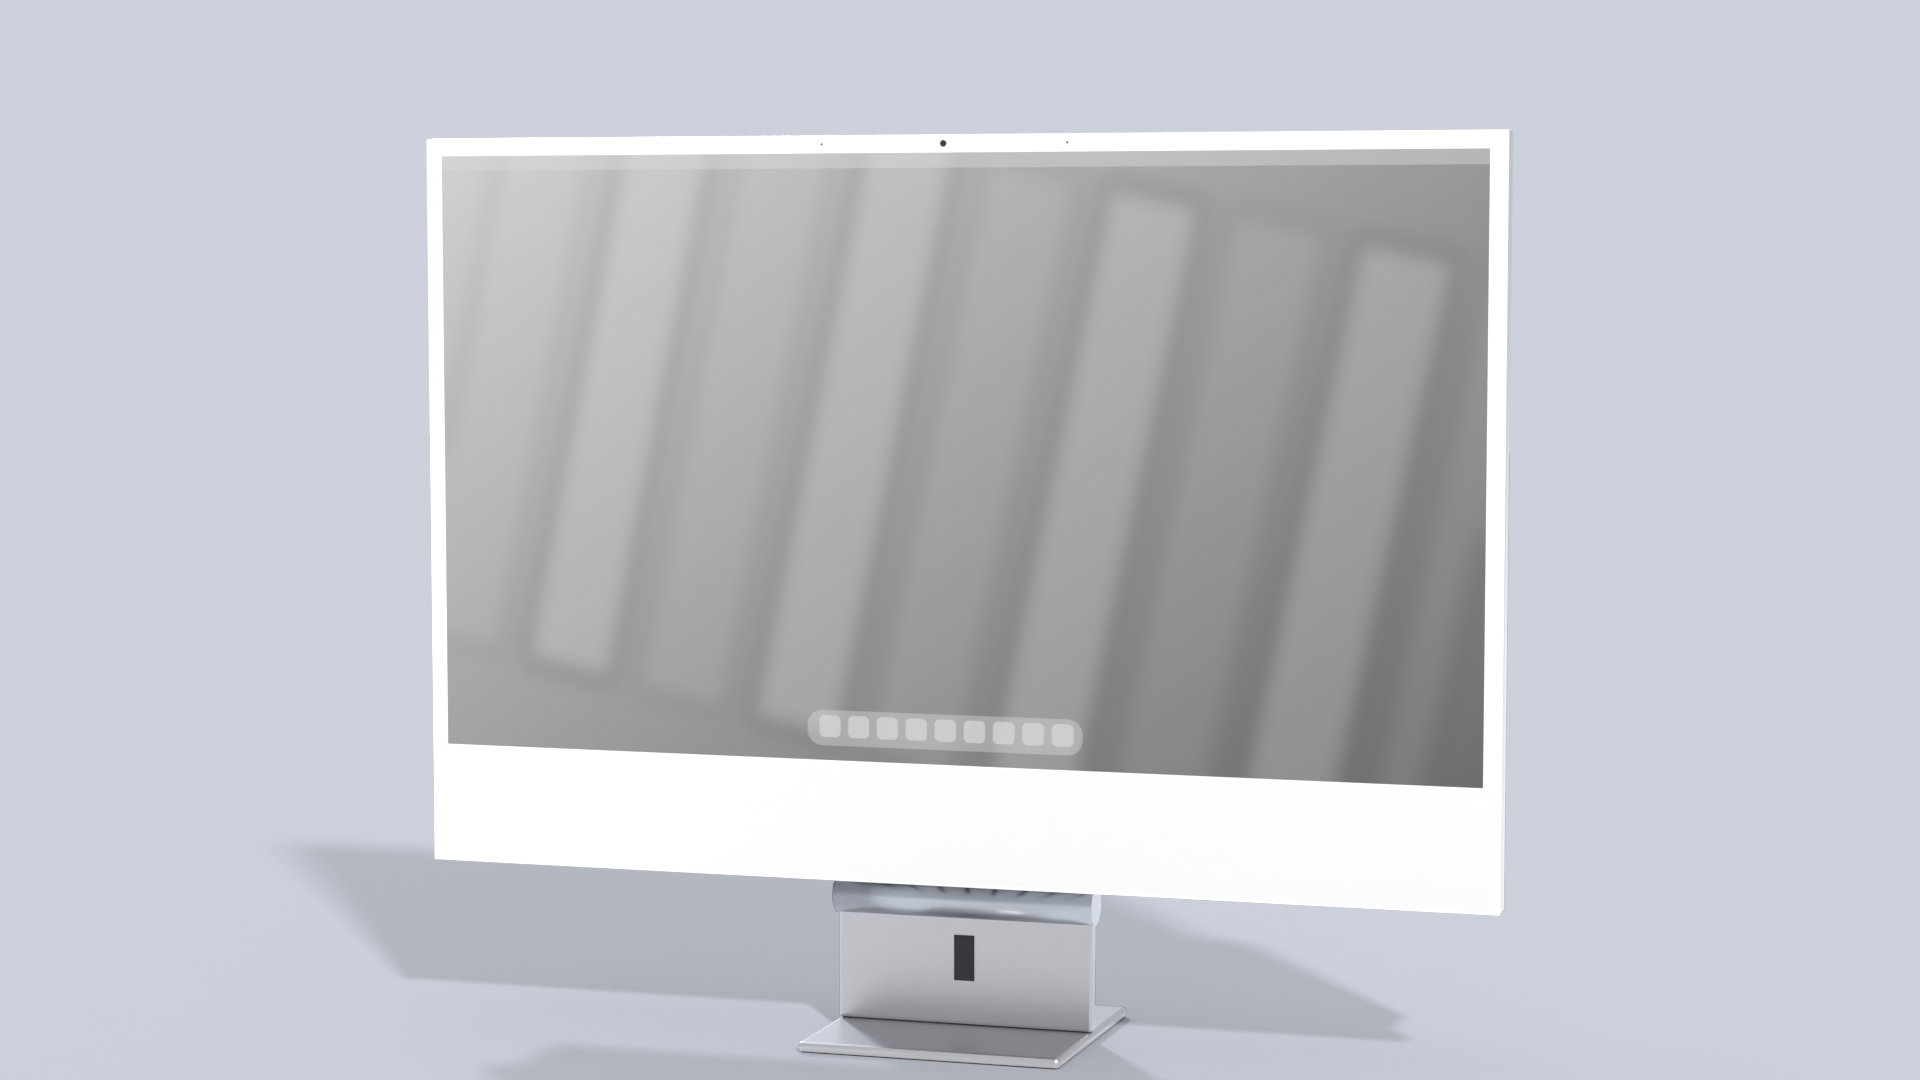
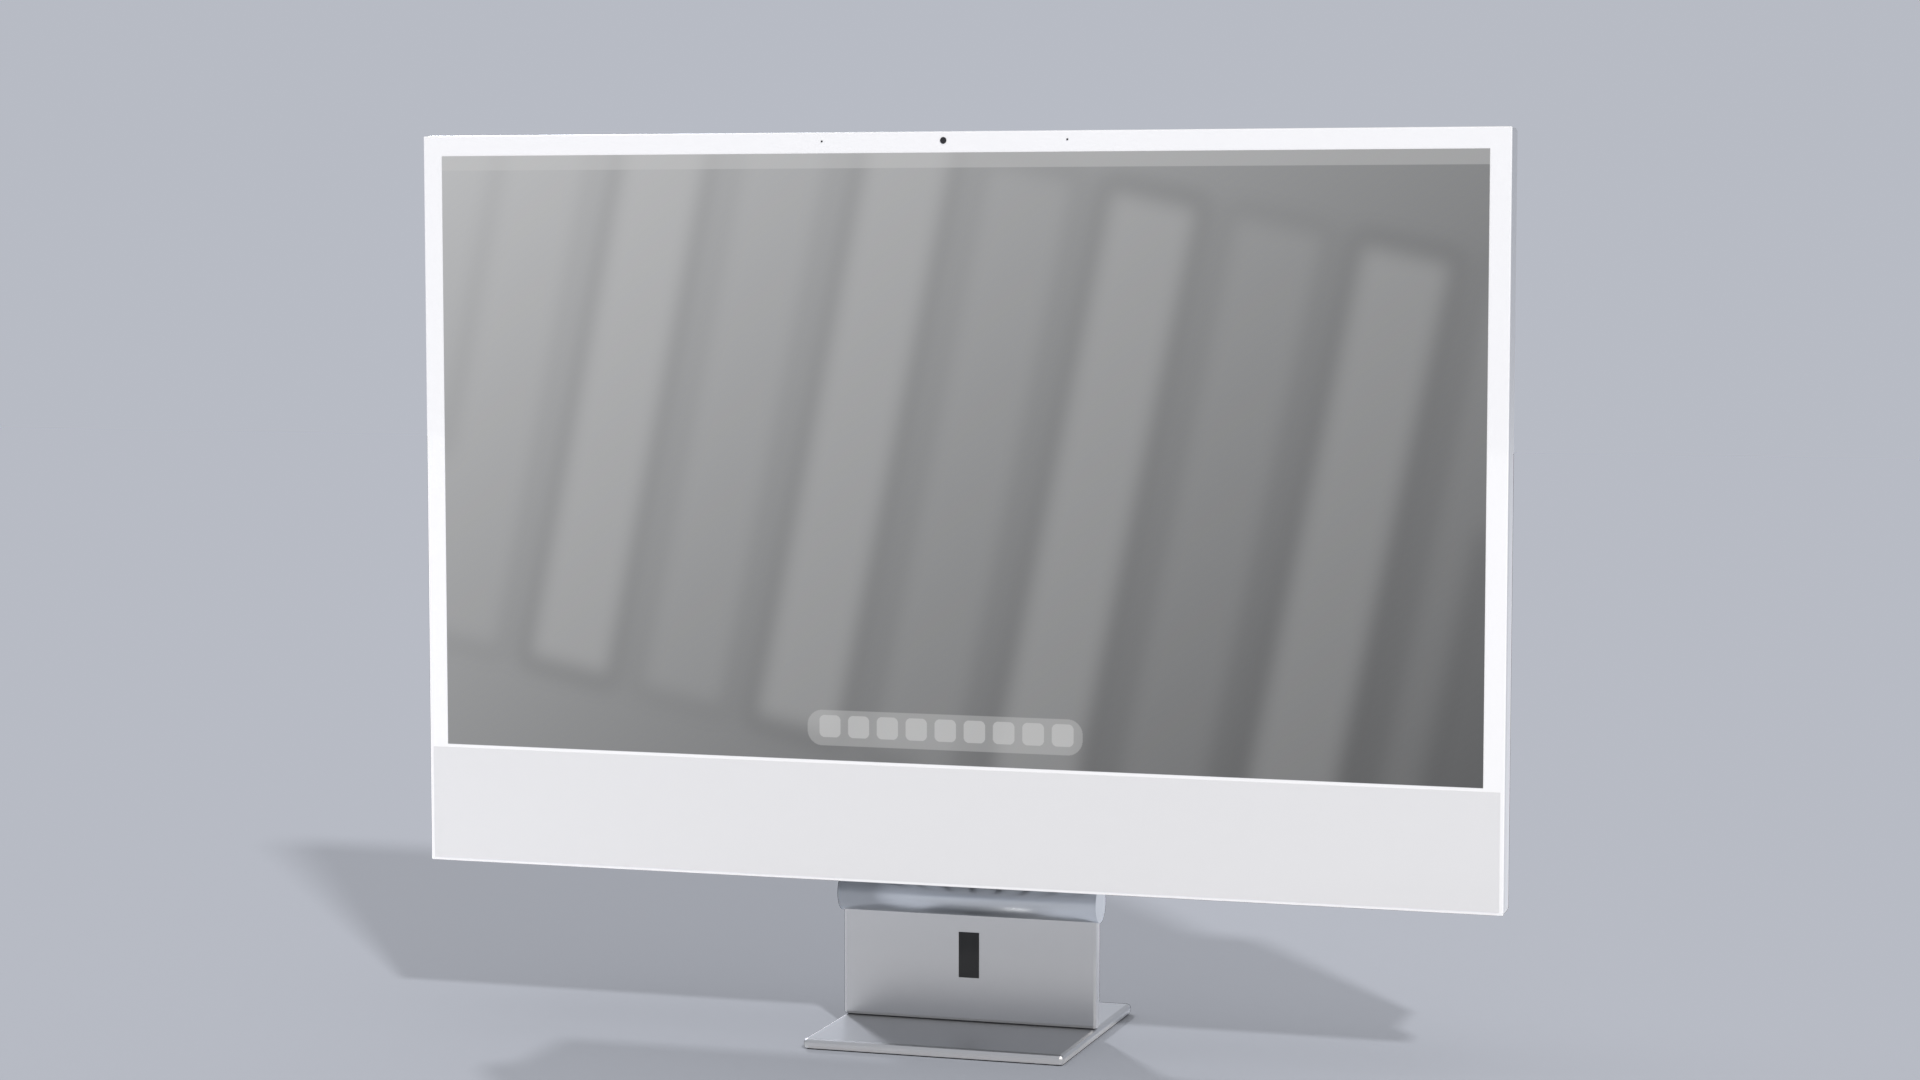
監査用レンダリング(focus/周回カメラ)と監査スクリプトを追加、ビューアのGLB base64読込
Claude-Session: https://claude.ai/code/session_01HbAbrZKUvZxhmzCz9B9StP

diff --git a/blender/build_imac_pc.py b/blender/build_imac_pc.py
@@ -18,7 +18,7 @@ ap.add_argument('--res', default='1600x900'); ap.add_argument('--samples', type=
 ap.add_argument('--cut', action='store_true'); ap.add_argument('--tilt', type=float, default=0)
 ap.add_argument('--explode', type=float, default=0); ap.add_argument('--phase', type=float, default=0.3)
 ap.add_argument('--panel', type=int, default=S['panel_size']); ap.add_argument('--save-blend', default='')
-ap.add_argument('--export', default=''); ap.add_argument('--frames', type=int, default=0)
+ap.add_argument('--export', default=''); ap.add_argument('--focus', default=''); ap.add_argument('--dist', type=float, default=500); ap.add_argument('--az', type=float, default=0); ap.add_argument('--el', type=float, default=20); ap.add_argument('--lens', type=float, default=70); ap.add_argument('--frames', type=int, default=0)
 argv = sys.argv[sys.argv.index('--') + 1:] if '--' in sys.argv else sys.argv[1:]
 A = ap.parse_args(argv)
 
@@ -486,6 +486,12 @@ VIEWS = {'front': ((520, 300, 1650), (0, 190, -30)), 'back': ((-640, 310, -1750)
          'detail_front': ((250, 250, 700), (0, 140, 0)), 'explode': ((-900, 420, -1850), (0, 110, -120))}
 if A.view in ('closeup', 'io'): k = 1.0
 vp, vt = VIEWS[A.view]; cam.location = V(vp[0] * k, vp[1] * k, vp[2] * k); TGT.location = V(*vt)
+if A.focus:   # 内部座標(x,y,z)を注視し、背面側から az/el で周回(az=0: 真後ろ)
+    fx_, fy_, fz_ = [float(v) for v in A.focus.split(',')]; t3 = Vector((X0 + fx_, Y0 + fy_, Z0 - fz_))
+    az_, el_ = math.radians(A.az), math.radians(A.el)
+    c3 = t3 + Vector((A.dist * math.sin(az_) * math.cos(el_), A.dist * math.sin(el_), -A.dist * math.cos(az_) * math.cos(el_)))
+    cam.location = V(c3.x, c3.y, c3.z); TGT.location = V(t3.x, t3.y, t3.z)
+cam_d.lens = A.lens
 r = scene.render; r.engine = 'CYCLES'; w_, h_ = [int(x) for x in A.res.split('x')]; r.resolution_x, r.resolution_y, r.resolution_percentage = w_, h_, 100
 cy = scene.cycles; cy.device = 'CPU'; cy.samples = A.samples; cy.use_denoising = True; cy.denoiser = 'OPENIMAGEDENOISE'; cy.max_bounces = 8; cy.transparent_max_bounces = 16
 cy.preview_samples = 16
